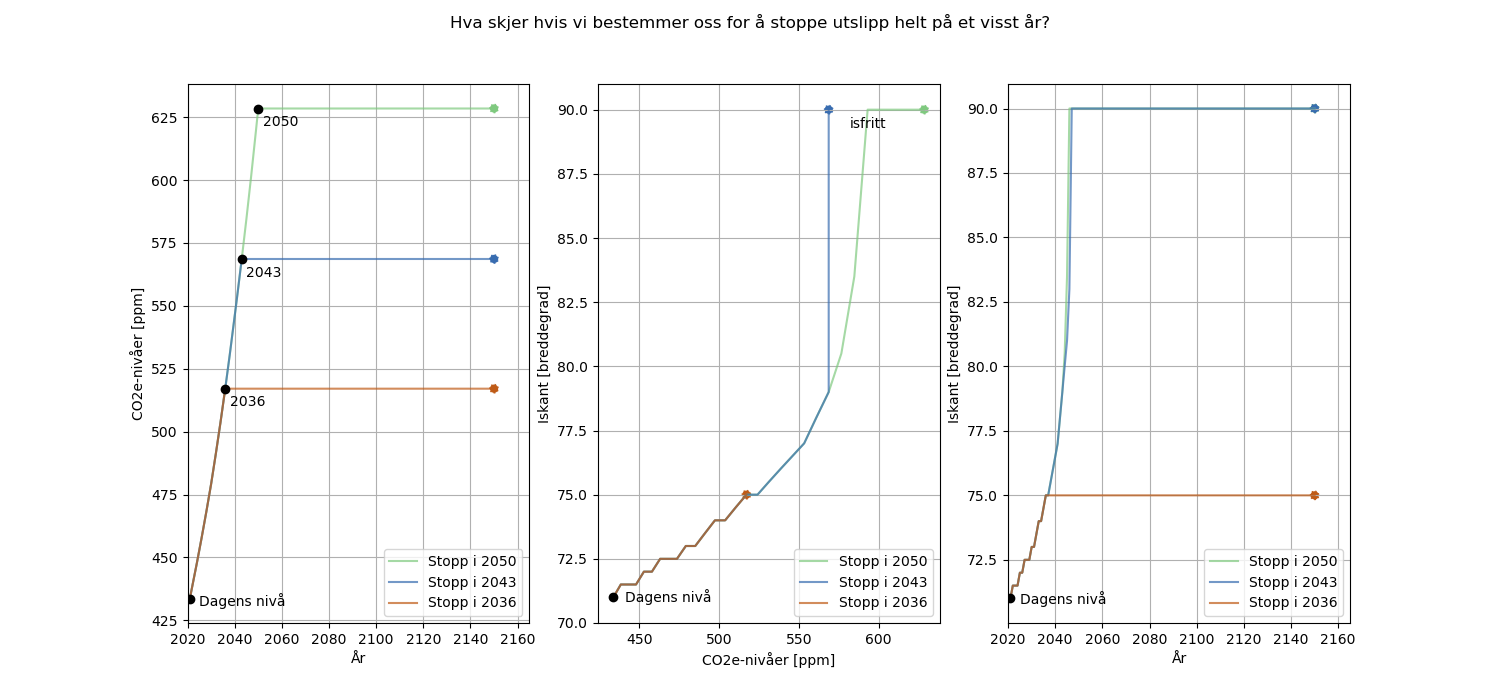
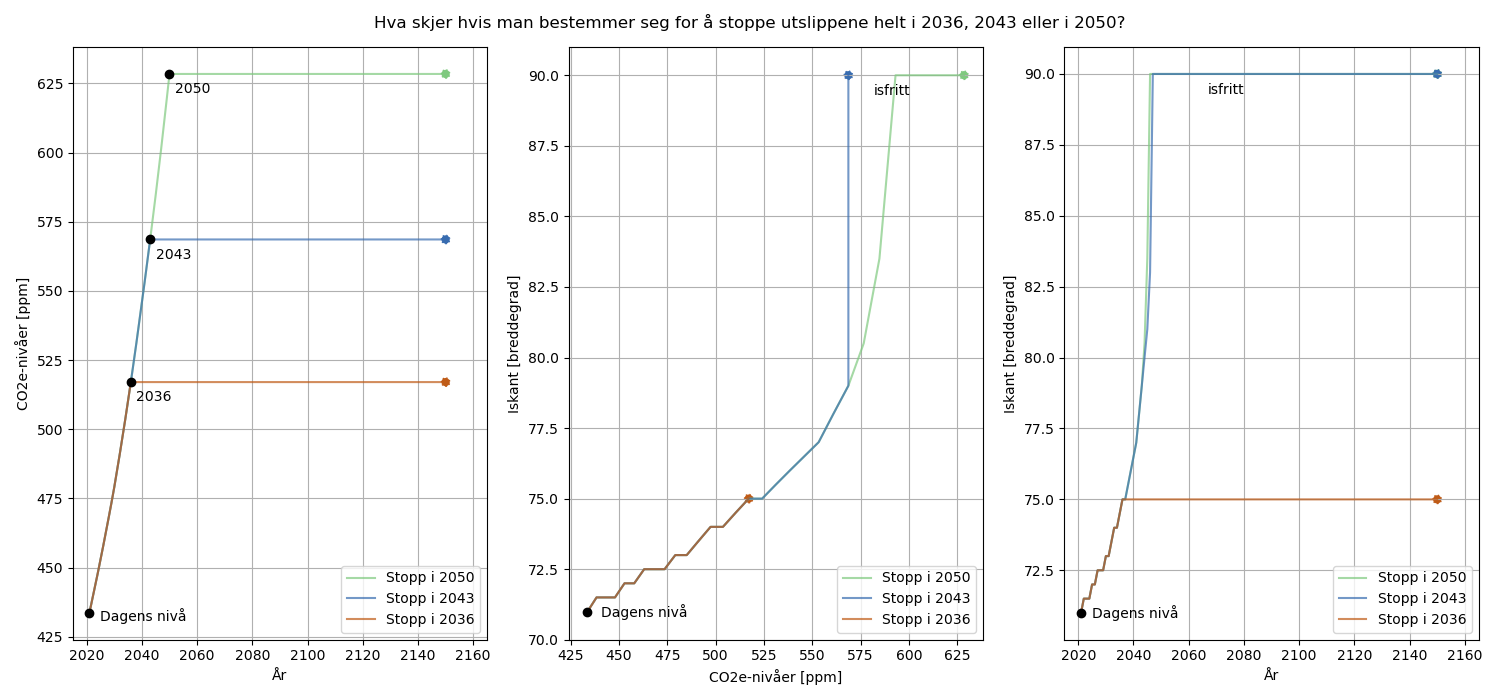
Even better plots

diff --git a/plot_worst_scenario_reverse_2040-2054.py b/plot_worst_scenario_reverse_2040-2054.py
@@ -20,43 +20,37 @@ year_list = [2036, 2043, 2044, 2050]
 cmap = matplotlib.cm.get_cmap('Accent')
 alpha = 1
 fig, axs = plt.subplots(nrows = 1, ncols = 3, figsize=(15,7))
-plt.suptitle('Hva skjer hvis vi bestemmer oss for å reversere utslipp på et visst år?')
+plt.suptitle('Hva skjer hvis man bestemmer seg for å reversere utslippene i 2036, 2043, 2044 eller 2050?')
 axs.flatten()
 for i, year_thresh in enumerate(reversed(year_list)):
-    name = 'predicts_vippepunkt_%s.npy'%year_thresh
-    
     #load prediction models
+    name = 'predicts_vippepunkt_%s.npy'%year_thresh
     predictions = np.load(name, allow_pickle = True)
     
     #plot icelats and co2e levels
     predmodel = predictions[3]
     
     if year_thresh == 2044:
+        #plot icelats and co2e levels
         axs[0].plot(predmodel.years, predmodel.co2e_array, color = cmap(i/len(year_list)), linestyle = '--', label = 'Revers i %s'%year_thresh, alpha = alpha)
         axs[1].plot(predmodel.co2e_array, predmodel.icelat, color = cmap(i/len(year_list)), linestyle = '--', label = 'Revers i %s'%year_thresh, alpha = alpha)
         axs[2].plot(predmodel.years, predmodel.icelat, color = cmap(i/len(year_list)), linestyle = '--', label = 'Revers i %s'%year_thresh, alpha = alpha)
         
-        #axs[0].plot(predmodel.years[2050-2021], predmodel.co2e_array[2050-2021], 'ko')
+        #plot decorations
         axs[1].annotate(text = 'isfritt', xy=(predmodel.co2e_array[2060-2021], predmodel.icelat[2060-2021]), xytext=(predmodel.co2e_array[2060-2021], predmodel.icelat[2060-2021]-0.7))
+        axs[2].annotate(text = 'isfritt', xy=(predmodel.years[2060-2021], predmodel.icelat[2060-2021]), xytext=(predmodel.years[2060-2021]-5, predmodel.icelat[2060-2021]-0.7))
     else:
+        #plot icelats and co2e levels
         axs[0].plot(predmodel.years, predmodel.co2e_array, color = cmap(i/len(year_list)), linestyle = '-', label = 'Revers i %s'%year_thresh, alpha = alpha)
         axs[1].plot(predmodel.co2e_array, predmodel.icelat, color = cmap(i/len(year_list)), linestyle = '-', label = 'Revers i %s'%year_thresh, alpha = alpha)
         axs[2].plot(predmodel.years, predmodel.icelat, color = cmap(i/len(year_list)), linestyle = '-', label = 'Revers i %s'%year_thresh, alpha = alpha)
     
-    
+    #plot decorations
     max_co2_i = np.argmax(predmodel.co2e_array)
     axs[0].plot(predmodel.years[max_co2_i], predmodel.co2e_array[max_co2_i], 'ko')
     axs[0].annotate(text = int(year_thresh), xy=(predmodel.years[max_co2_i], predmodel.co2e_array[max_co2_i]), xytext=(predmodel.years[max_co2_i]+4, predmodel.co2e_array[max_co2_i]-3))
-    '''
-    axs[1].plot(predmodel.co2e_array[max_co2_i], predmodel.icelat[max_co2_i], 'ko')
-    if year_thresh > 2044:
-        axs[1].annotate(text = int(year_thresh), xy=(predmodel.co2e_array[max_co2_i], predmodel.icelat[max_co2_i]), xytext=(predmodel.co2e_array[max_co2_i]+1, predmodel.icelat[max_co2_i]-0.5*((year_thresh%4) - 0.5)))
-    else:
-        axs[1].annotate(text = int(year_thresh), xy=(predmodel.co2e_array[max_co2_i], predmodel.icelat[max_co2_i]), xytext=(predmodel.co2e_array[max_co2_i]+7, predmodel.icelat[max_co2_i]-0.2))
-    axs[2].plot(predmodel.years[max_co2_i], predmodel.icelat[max_co2_i], 'ko')
-    axs[2].annotate(text = int(year_thresh), xy=(predmodel.years[max_co2_i], predmodel.icelat[max_co2_i]), xytext=(predmodel.years[max_co2_i]+4, predmodel.icelat[max_co2_i]-0.2))
-    '''
 
+#plot decorations
 axs[0].plot(predmodel.years[0], predmodel.co2e_array[0], 'ko')
 axs[1].plot(predmodel.co2e_array[0], predmodel.icelat[0], 'ko')
 axs[2].plot(predmodel.years[0], predmodel.icelat[0], 'ko')
@@ -64,10 +58,9 @@ axs[0].annotate(text = 'Dagens nivå', xy=(predmodel.years[0], predmodel.co2e_ar
 axs[1].annotate(text = 'Dagens nivå', xy=(predmodel.co2e_array[0], predmodel.icelat[0]), xytext=(predmodel.co2e_array[0]+7, predmodel.icelat[0]-0.2))
 axs[2].annotate(text = 'Dagens nivå', xy=(predmodel.years[0], predmodel.icelat[0]), xytext=(predmodel.years[0]+4, predmodel.icelat[0]-0.2))
 
-axs[0].set_xlim(2020,2165)
-axs[2].set_xlim(2020,2165)
+axs[0].set_xlim(2015,2165)
+axs[2].set_xlim(2015,2165)
 axs[1].set_ylim(70,91)
-#axs[0].set_ylim(420,630)
 axs[0].set_xlabel('År')
 axs[0].set_ylabel('CO2e-nivåer [ppm]')
 axs[1].set_xlabel('CO2e-nivåer [ppm]')
@@ -80,5 +73,5 @@ axs[2].legend()
 axs[0].grid()
 axs[1].grid()
 axs[2].grid()
-#fig2.tight_layout()
+fig.tight_layout()
 fig.show()

diff --git a/plot_worst_scenario_stop_2040-2054.py b/plot_worst_scenario_stop_2040-2054.py
@@ -21,15 +21,14 @@ year_list = [2036, 2043, 2044, 2050]
 cmap = matplotlib.cm.get_cmap('Accent')
 alpha = 0.7
 fig, axs = plt.subplots(nrows = 1, ncols = 3, figsize=(15,7))
-plt.suptitle('Hva skjer hvis vi bestemmer oss for å stoppe utslipp helt på et visst år?')
+plt.suptitle('Hva skjer hvis man bestemmer seg for å stoppe utslippene helt i 2036, 2043 eller i 2050?')
 axs.flatten()
 for i, year_thresh in enumerate(reversed(year_list)):
     if year_thresh == 2044:
         pass
     else:
-        name = 'predicts_vippepunkt_s_%s.npy'%year_thresh
-        
         #load prediction models
+        name = 'predicts_vippepunkt_s_%s.npy'%year_thresh
         predictions = np.load(name, allow_pickle = True)
         
         #plot icelats and co2e levels
@@ -38,23 +37,17 @@ for i, year_thresh in enumerate(reversed(year_list)):
         axs[1].plot(predmodel.co2e_array, predmodel.icelat, color = cmap(i/len(year_list)), linestyle = '-', label = 'Stopp i %s'%year_thresh, alpha = alpha)
         axs[2].plot(predmodel.years, predmodel.icelat, color = cmap(i/len(year_list)), linestyle = '-', label = 'Stopp i %s'%year_thresh, alpha = alpha)
         
-        
+        #plot decorations
         max_co2_i = np.argmax(predmodel.co2e_array)
         if year_thresh == 2050:
             axs[1].annotate(text = 'isfritt', xy=(predmodel.co2e_array[2047-2021], predmodel.icelat[2047-2021]), xytext=(predmodel.co2e_array[2047-2021]-20, predmodel.icelat[2047-2021]-0.7))
-        
-        
+            axs[2].annotate(text = 'isfritt', xy=(predmodel.years[2047-2021], predmodel.icelat[2047-2021]), xytext=(predmodel.years[2047-2021]+20, predmodel.icelat[2047-2021]-0.7))
         axs[0].plot(predmodel.years[max_co2_i], predmodel.co2e_array[max_co2_i], 'ko')
         axs[0].annotate(text = int(year_thresh), xy=(predmodel.years[max_co2_i], predmodel.co2e_array[max_co2_i]), xytext=(predmodel.years[max_co2_i]+2, predmodel.co2e_array[max_co2_i]-7))
-        
         axs[0].scatter(predmodel.years[-1], predmodel.co2e_array[-1], color = cmap(i/len(year_list)), linestyle = 'dotted')
         axs[1].scatter(predmodel.co2e_array[-1], predmodel.icelat[-1], color = cmap(i/len(year_list)), linestyle = 'dotted')
         axs[2].scatter(predmodel.years[-1], predmodel.icelat[-1], color = cmap(i/len(year_list)), linestyle = 'dotted')
-        #axs[1].annotate(text = int(year_thresh), xy=(predmodel.co2e_array[max_co2_i], predmodel.icelat[max_co2_i]), xytext=(predmodel.co2e_array[max_co2_i]+7, predmodel.icelat[max_co2_i]-0.2))
-        '''
-        axs[2].plot(predmodel.years[max_co2_i], predmodel.icelat[max_co2_i], 'ko')
-        axs[2].annotate(text = int(year_thresh), xy=(predmodel.years[max_co2_i], predmodel.icelat[max_co2_i]), xytext=(predmodel.years[max_co2_i]+4, predmodel.icelat[max_co2_i]-0.2))
-        '''
+        
     
 #axs[1].set_title('Cut year %s'%year_thresh)
 axs[0].plot(predmodel.years[0], predmodel.co2e_array[0], 'ko')
@@ -64,8 +57,8 @@ axs[0].annotate(text = 'Dagens nivå', xy=(predmodel.years[0], predmodel.co2e_ar
 axs[1].annotate(text = 'Dagens nivå', xy=(predmodel.co2e_array[0], predmodel.icelat[0]), xytext=(predmodel.co2e_array[0]+7, predmodel.icelat[0]-0.2))
 axs[2].annotate(text = 'Dagens nivå', xy=(predmodel.years[0], predmodel.icelat[0]), xytext=(predmodel.years[0]+4, predmodel.icelat[0]-0.2))
 
-axs[0].set_xlim(2020,2165)
-axs[2].set_xlim(2020,2165)
+axs[0].set_xlim(2015,2165)
+axs[2].set_xlim(2015,2165)
 axs[1].set_ylim(70,91)
 axs[0].set_xlabel('År')
 axs[0].set_ylabel('CO2e-nivåer [ppm]')
@@ -79,5 +72,5 @@ axs[2].legend()
 axs[0].grid()
 axs[1].grid()
 axs[2].grid()
-#fig2.tight_layout()
+fig.tight_layout()
 fig.show()

diff --git a/plot_4scenarios_years-co2-icelat.py b/plot_4scenarios_years-co2-icelat.py
@@ -15,31 +15,37 @@ name = 'predicts_vanilla.npy'
 predictions = np.load(name, allow_pickle = True)
 
 #plot icelats and co2e levels
-cmap = matplotlib.cm.get_cmap('magma')
+cmap = matplotlib.cm.get_cmap('Accent')
 fig2, axs = plt.subplots(nrows = 1, ncols = 3, figsize=(15,7))
-plt.suptitle('Co2e-nivåer og islinja frem til 2150 for fire utslippsmodeller')
+plt.suptitle('Co2e-nivåer og iskanten frem til 2150 for fire utslippsmodeller')
 for i,predmodel in enumerate(predictions):
     axs[0].plot(predmodel.years, predmodel.co2e_array, color = cmap(i/4), linestyle = '-', label = predmodel.label, alpha = 0.7)
     axs[1].plot(predmodel.co2e_array, predmodel.icelat, color = cmap(i/4), linestyle = '-', label = predmodel.label, alpha = 0.7)
     axs[2].plot(predmodel.years, predmodel.icelat, color = cmap(i/4), linestyle = '-', label = predmodel.label, alpha = 0.7)
+    axs[0].scatter(predmodel.years[-1], predmodel.co2e_array[-1], color = cmap(i/4), linestyle = 'dotted')
+    axs[1].scatter(predmodel.co2e_array[-1], predmodel.icelat[-1], color = cmap(i/4), linestyle = 'dotted')
+    axs[2].scatter(predmodel.years[-1], predmodel.icelat[-1], color = cmap(i/4), linestyle = 'dotted')
 
 axs[0].plot(predmodel.years[0], predmodel.co2e_array[0], 'ko')
 axs[1].plot(predmodel.co2e_array[0], predmodel.icelat[0], 'ko')
 axs[2].plot(predmodel.years[0], predmodel.icelat[0], 'ko')
-axs[0].annotate(text = 'Dagens nivå', xy=(predmodel.years[0], predmodel.co2e_array[0]), xytext=(predmodel.years[0]+4, predmodel.co2e_array[0]-3))
-axs[1].annotate(text = 'Dagens nivå', xy=(predmodel.co2e_array[0], predmodel.icelat[0]), xytext=(predmodel.co2e_array[0]+7, predmodel.icelat[0]-0.2))
-axs[2].annotate(text = 'Dagens nivå', xy=(predmodel.years[0], predmodel.icelat[0]), xytext=(predmodel.years[0]+4, predmodel.icelat[0]-3))
+axs[0].annotate(text = 'Dagens nivå', xy=(predmodel.years[0], predmodel.co2e_array[0]), xytext=(predmodel.years[0]+4, predmodel.co2e_array[0]-40))
+axs[1].annotate(text = 'Dagens nivå', xy=(predmodel.co2e_array[0], predmodel.icelat[0]), xytext=(predmodel.co2e_array[0]+50, predmodel.icelat[0]-0.2))
+axs[2].annotate(text = 'Dagens nivå', xy=(predmodel.years[0], predmodel.icelat[0]), xytext=(predmodel.years[0]+4, predmodel.icelat[0]-0.2))
+
+
+
 axs[1].set_ylim(70,91)
 #axs[0].set_ylim(420,630)
 axs[0].set_xlabel('År')
 axs[0].set_ylabel('CO2e-nivåer [ppm]')
 axs[1].set_xlabel('CO2e-nivåer [ppm]')
-axs[1].set_ylabel('Islinje (breddegrad)')
+axs[1].set_ylabel('Iskant [breddegrad]')
 axs[2].set_xlabel('År')
-axs[2].set_ylabel('Islinje (breddegrad)')
-axs[0].legend()
-axs[1].legend()
-axs[2].legend()
+axs[2].set_ylabel('Iskant [breddegrad]')
+axs[0].legend(loc = 'right')
+axs[1].legend(loc = 'right')
+axs[2].legend(loc = 'right')
 axs[0].grid()
 axs[1].grid()
 axs[2].grid()
